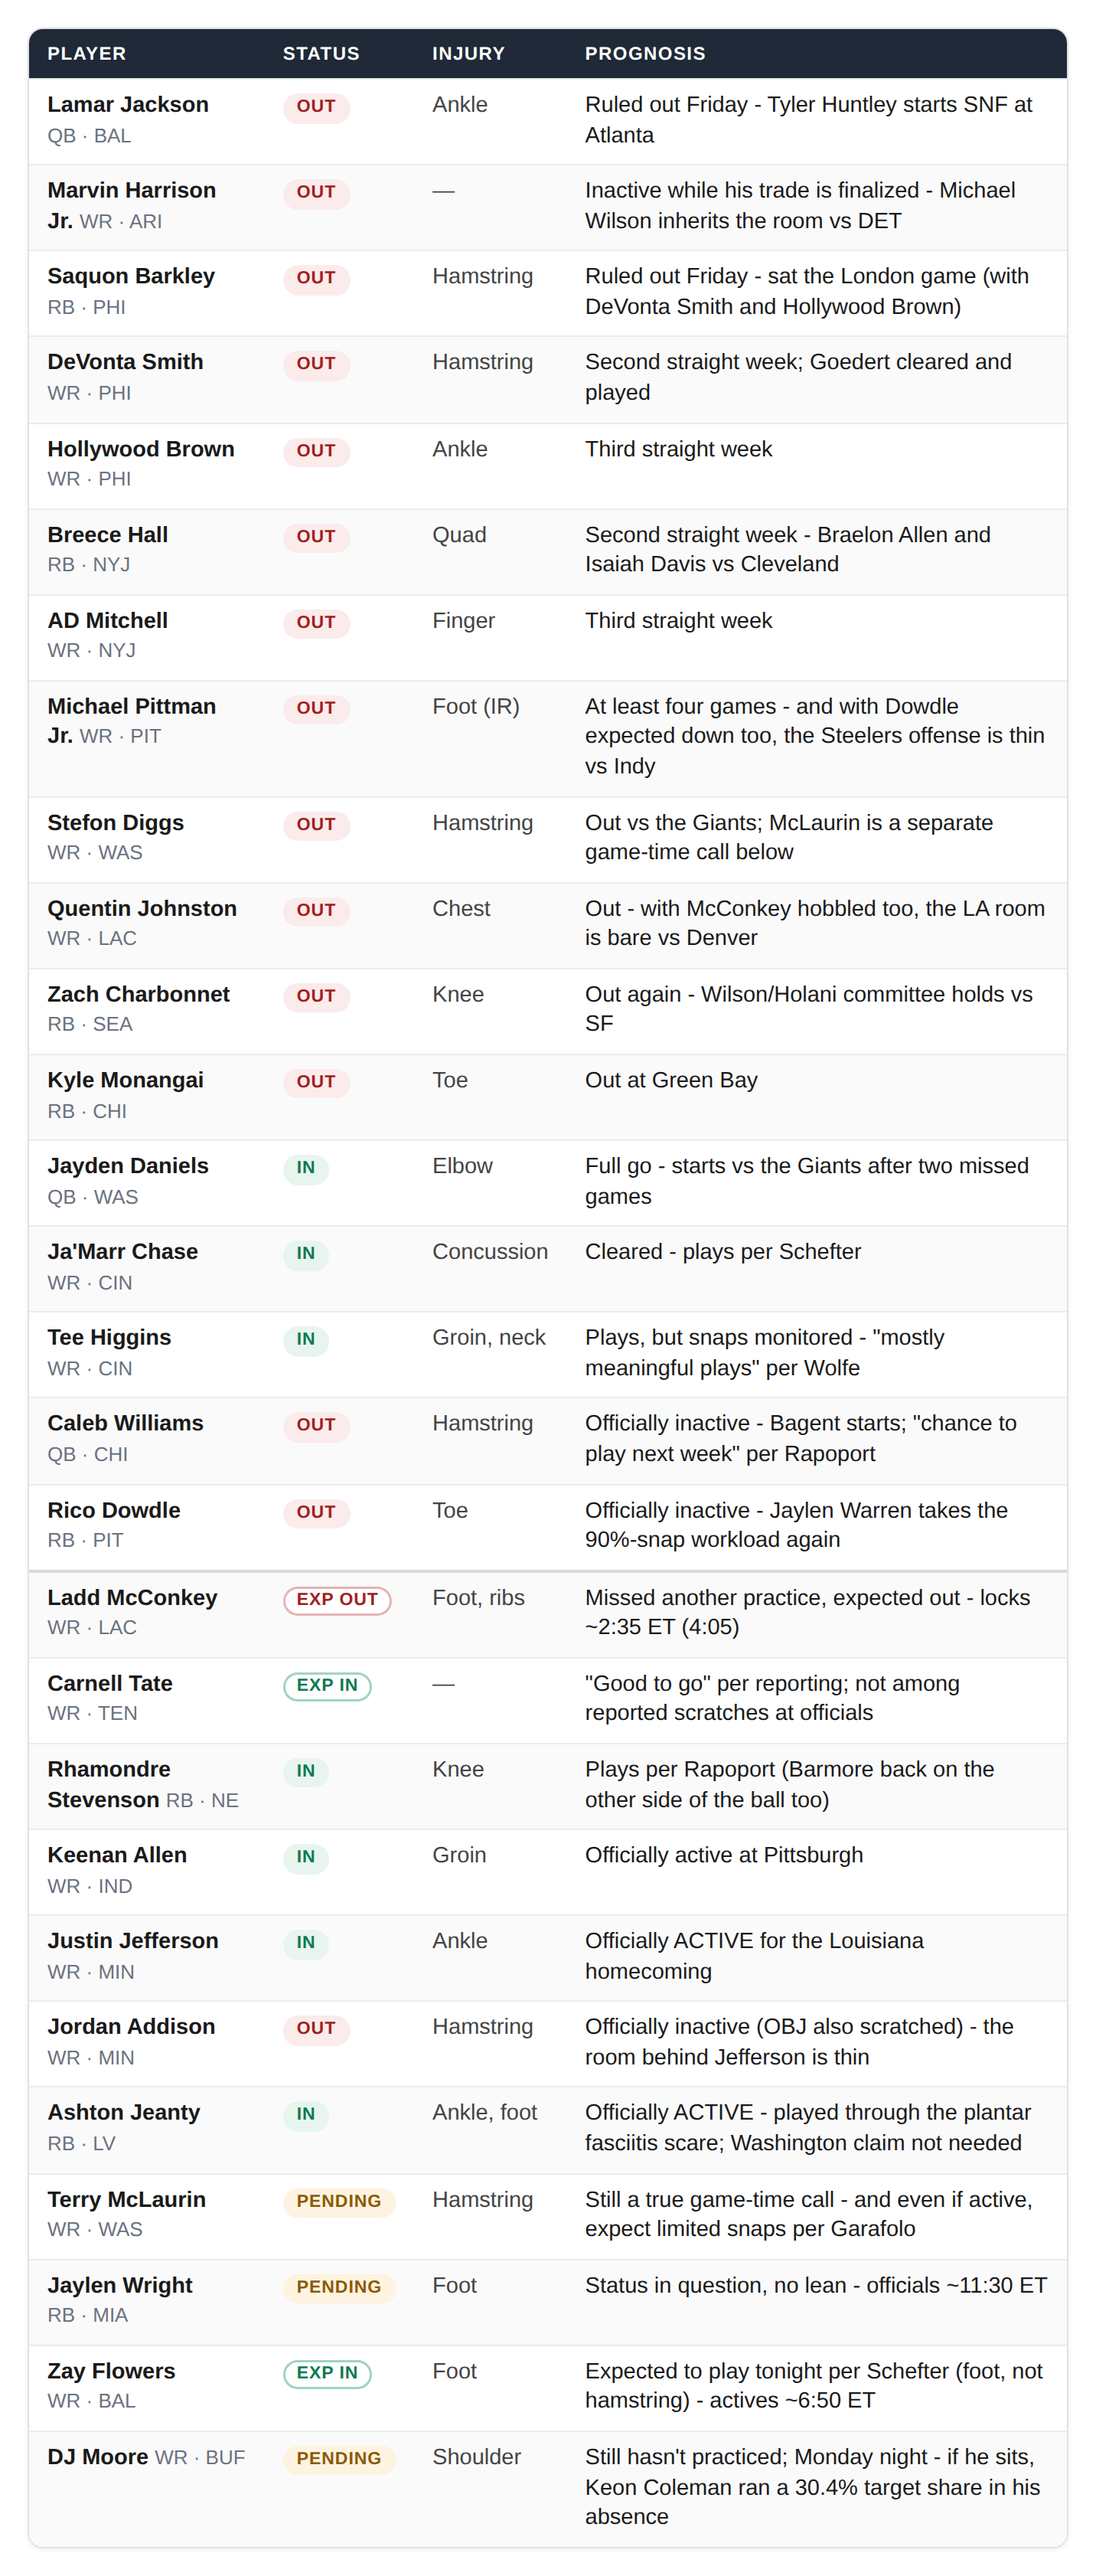
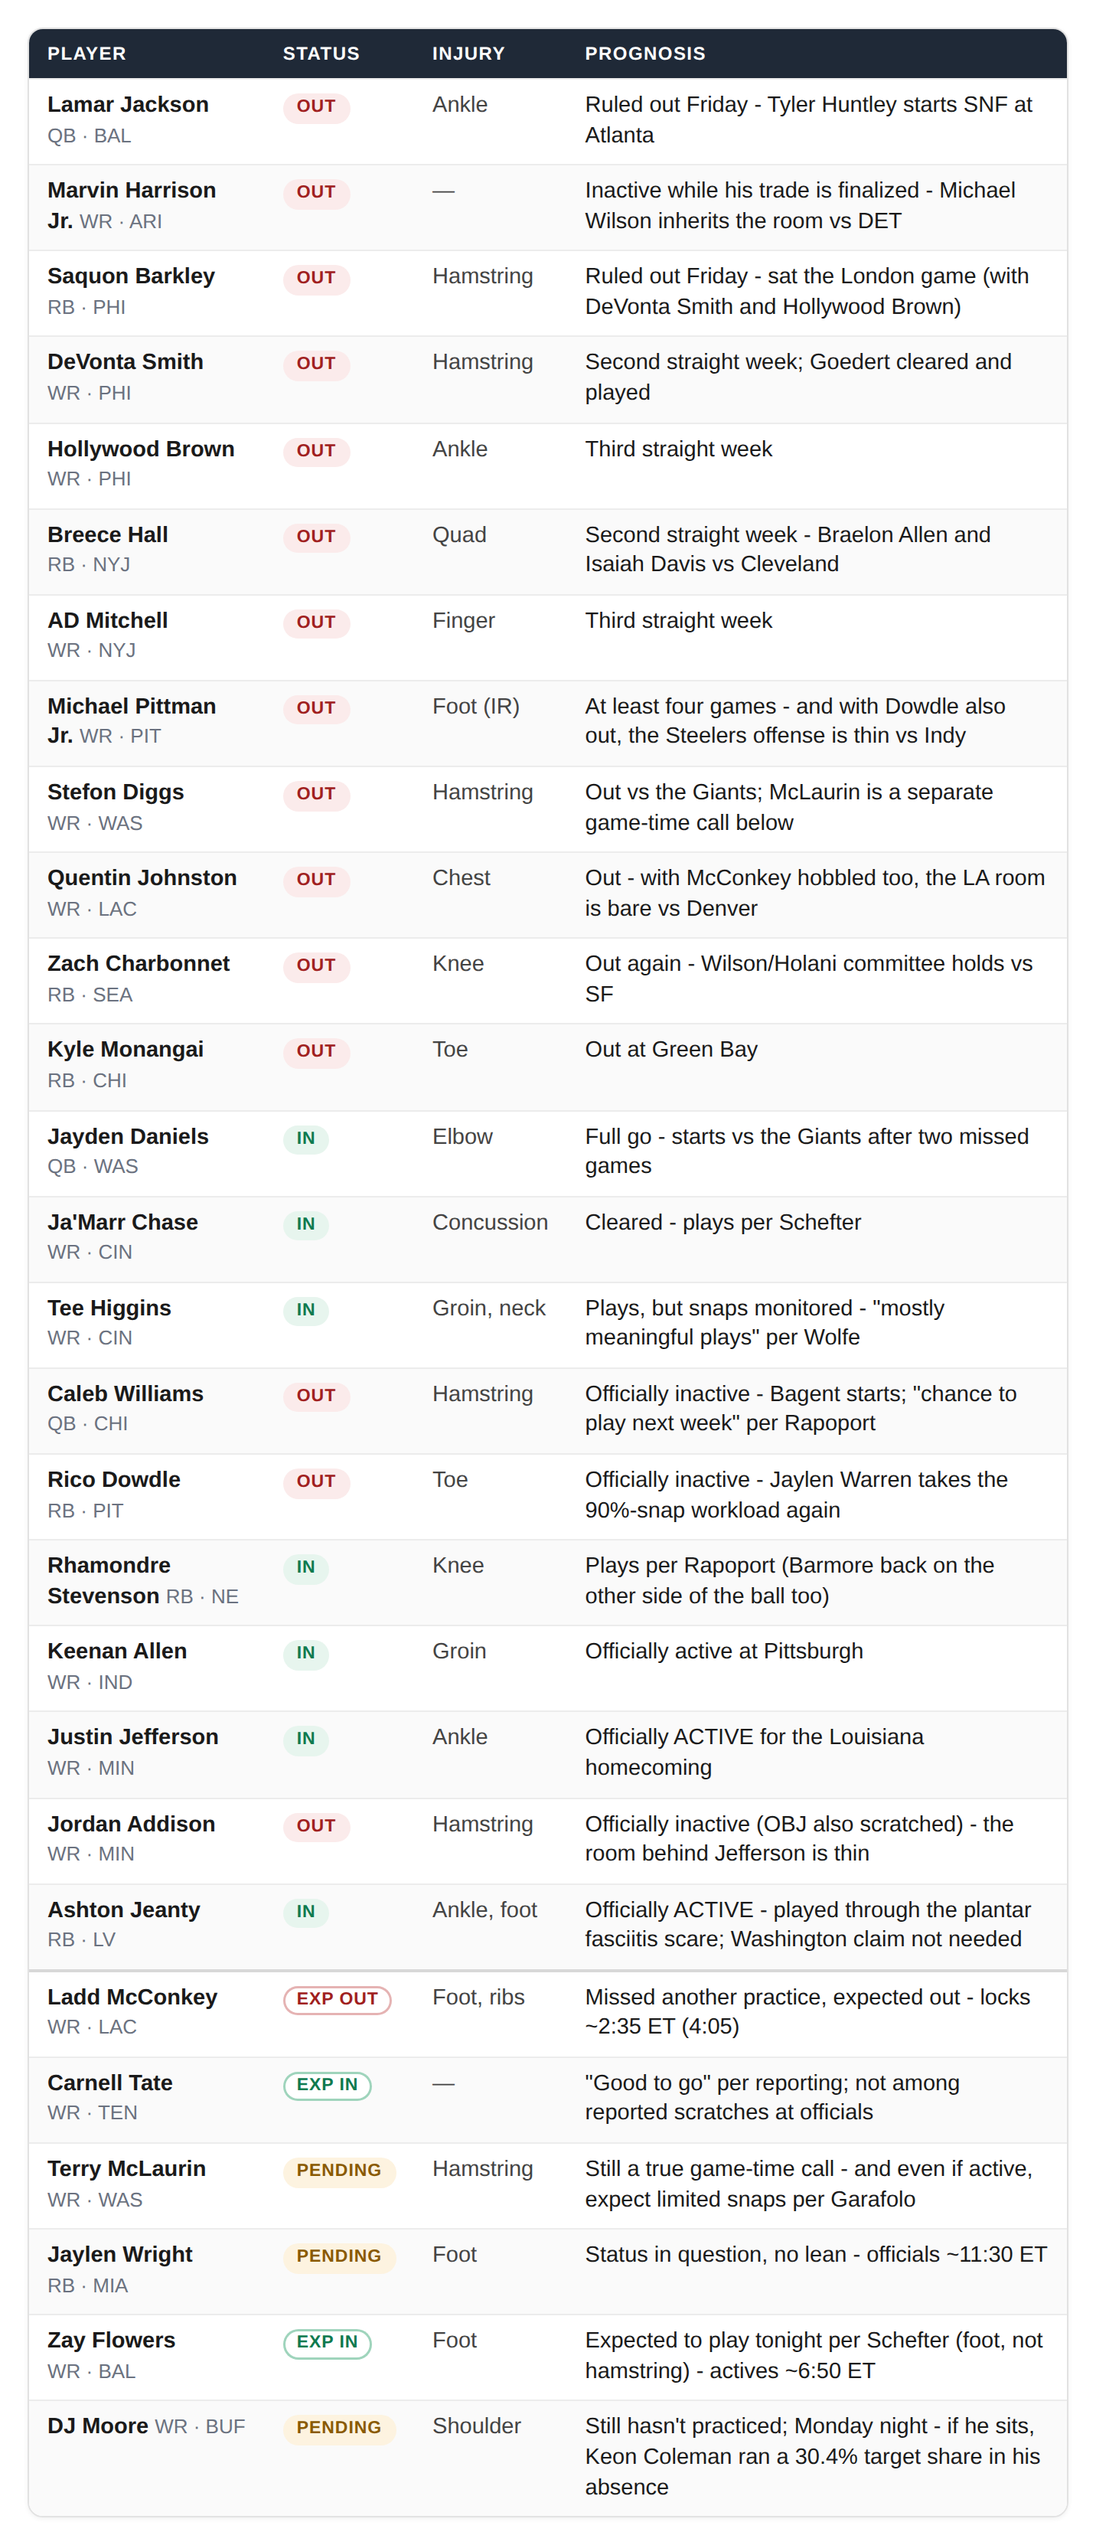
Wire: locked rows first, not-locked last (divider order)
Claude-Session: https://claude.ai/code/session_01LD24FbXSMtPMcXZkoCgqbd

diff --git a/data/sunday/injury-wire.md b/data/sunday/injury-wire.md
@@ -28,7 +28,7 @@
 | Hollywood Brown | WR · PHI | OUT | Ankle | Third straight week |
 | Breece Hall | RB · NYJ | OUT | Quad | Second straight week - Braelon Allen and Isaiah Davis vs Cleveland |
 | AD Mitchell | WR · NYJ | OUT | Finger | Third straight week |
-| Michael Pittman Jr. | WR · PIT | OUT | Foot (IR) | At least four games - and with Dowdle expected down too, the Steelers offense is thin vs Indy |
+| Michael Pittman Jr. | WR · PIT | OUT | Foot (IR) | At least four games - and with Dowdle also out, the Steelers offense is thin vs Indy |
 | Stefon Diggs | WR · WAS | OUT | Hamstring | Out vs the Giants; McLaurin is a separate game-time call below |
 | Quentin Johnston | WR · LAC | OUT | Chest | Out - with McConkey hobbled too, the LA room is bare vs Denver |
 | Zach Charbonnet | RB · SEA | OUT | Knee | Out again - Wilson/Holani committee holds vs SF |
@@ -38,13 +38,13 @@
 | Tee Higgins | WR · CIN | IN | Groin, neck | Plays, but snaps monitored - "mostly meaningful plays" per Wolfe |
 | Caleb Williams | QB · CHI | OUT | Hamstring | Officially inactive - Bagent starts; "chance to play next week" per Rapoport |
 | Rico Dowdle | RB · PIT | OUT | Toe | Officially inactive - Jaylen Warren takes the 90%-snap workload again |
-| Ladd McConkey | WR · LAC | EXP OUT | Foot, ribs | Missed another practice, expected out - locks ~2:35 ET (4:05) |
-| Carnell Tate | WR · TEN | EXP IN | — | "Good to go" per reporting; not among reported scratches at officials |
 | Rhamondre Stevenson | RB · NE | IN | Knee | Plays per Rapoport (Barmore back on the other side of the ball too) |
 | Keenan Allen | WR · IND | IN | Groin | Officially active at Pittsburgh |
 | Justin Jefferson | WR · MIN | IN | Ankle | Officially ACTIVE for the Louisiana homecoming |
 | Jordan Addison | WR · MIN | OUT | Hamstring | Officially inactive (OBJ also scratched) - the room behind Jefferson is thin |
 | Ashton Jeanty | RB · LV | IN | Ankle, foot | Officially ACTIVE - played through the plantar fasciitis scare; Washington claim not needed |
+| Ladd McConkey | WR · LAC | EXP OUT | Foot, ribs | Missed another practice, expected out - locks ~2:35 ET (4:05) |
+| Carnell Tate | WR · TEN | EXP IN | — | "Good to go" per reporting; not among reported scratches at officials |
 | Terry McLaurin | WR · WAS | PENDING | Hamstring | Still a true game-time call - and even if active, expect limited snaps per Garafolo |
 | Jaylen Wright | RB · MIA | PENDING | Foot | Status in question, no lean - officials ~11:30 ET |
 | Zay Flowers | WR · BAL | EXP IN | Foot | Expected to play tonight per Schefter (foot, not hamstring) - actives ~6:50 ET |
